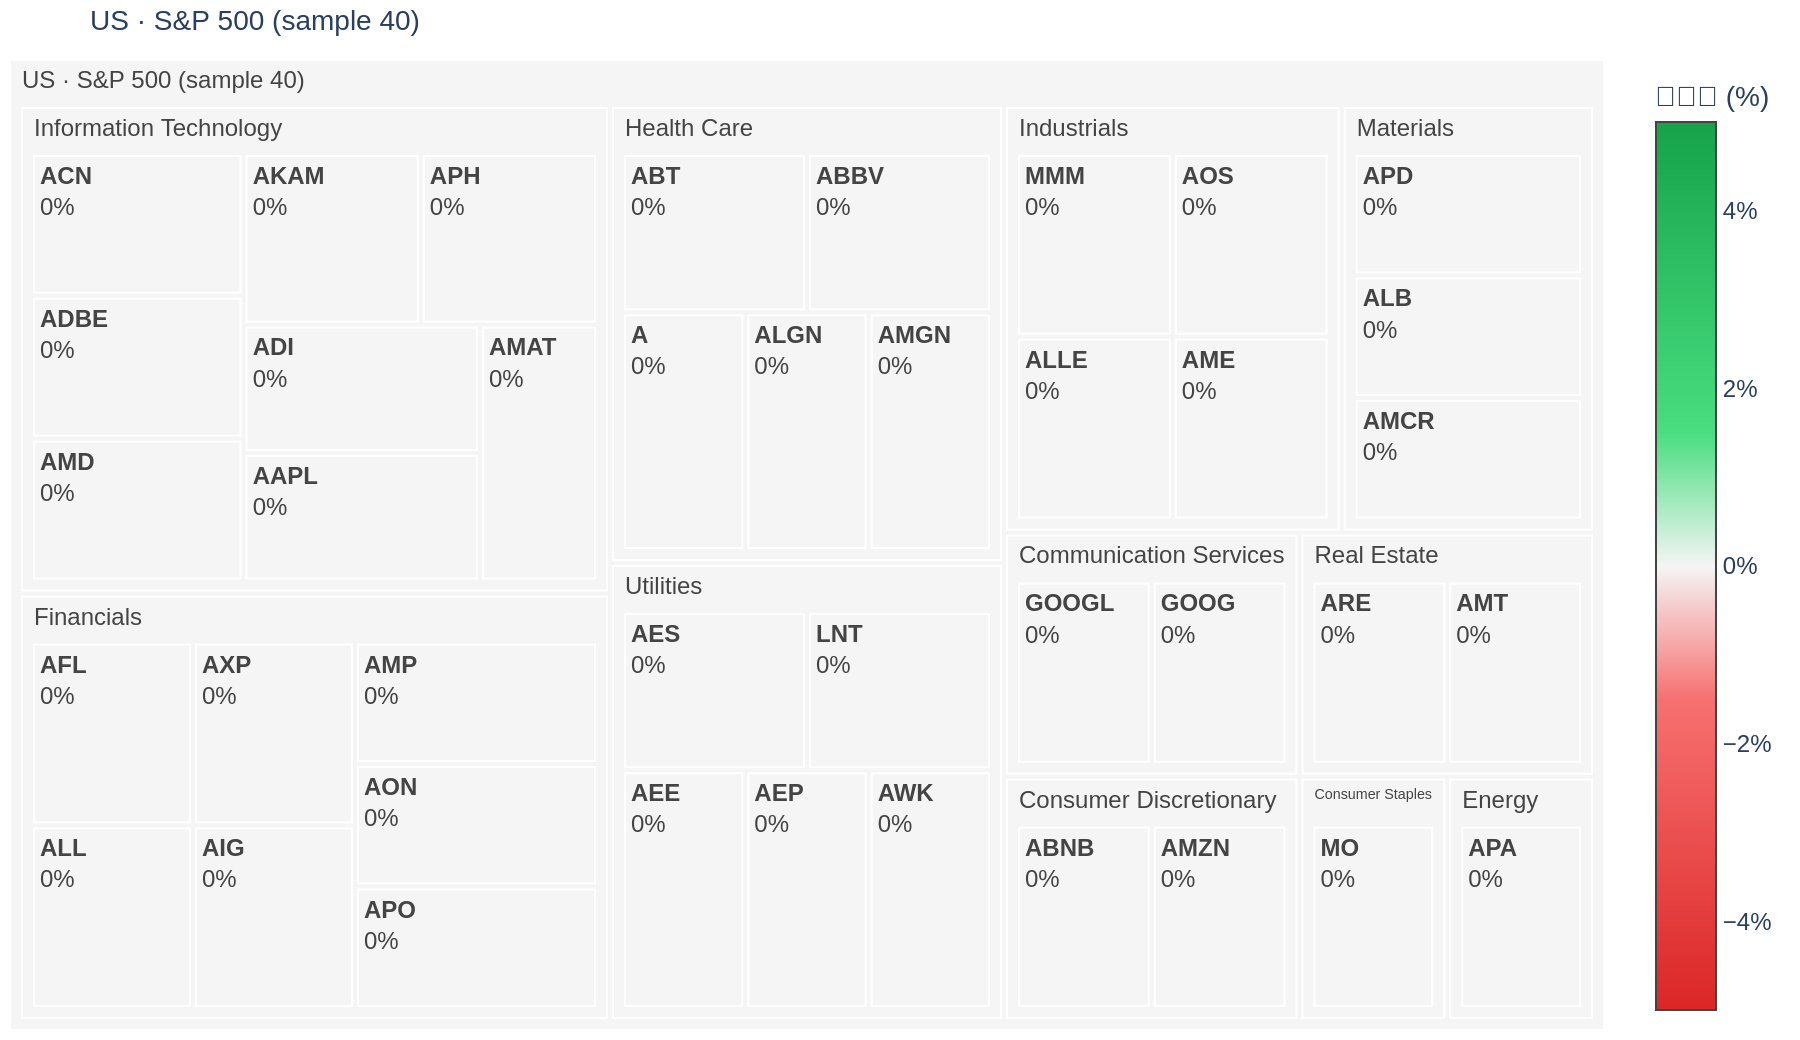
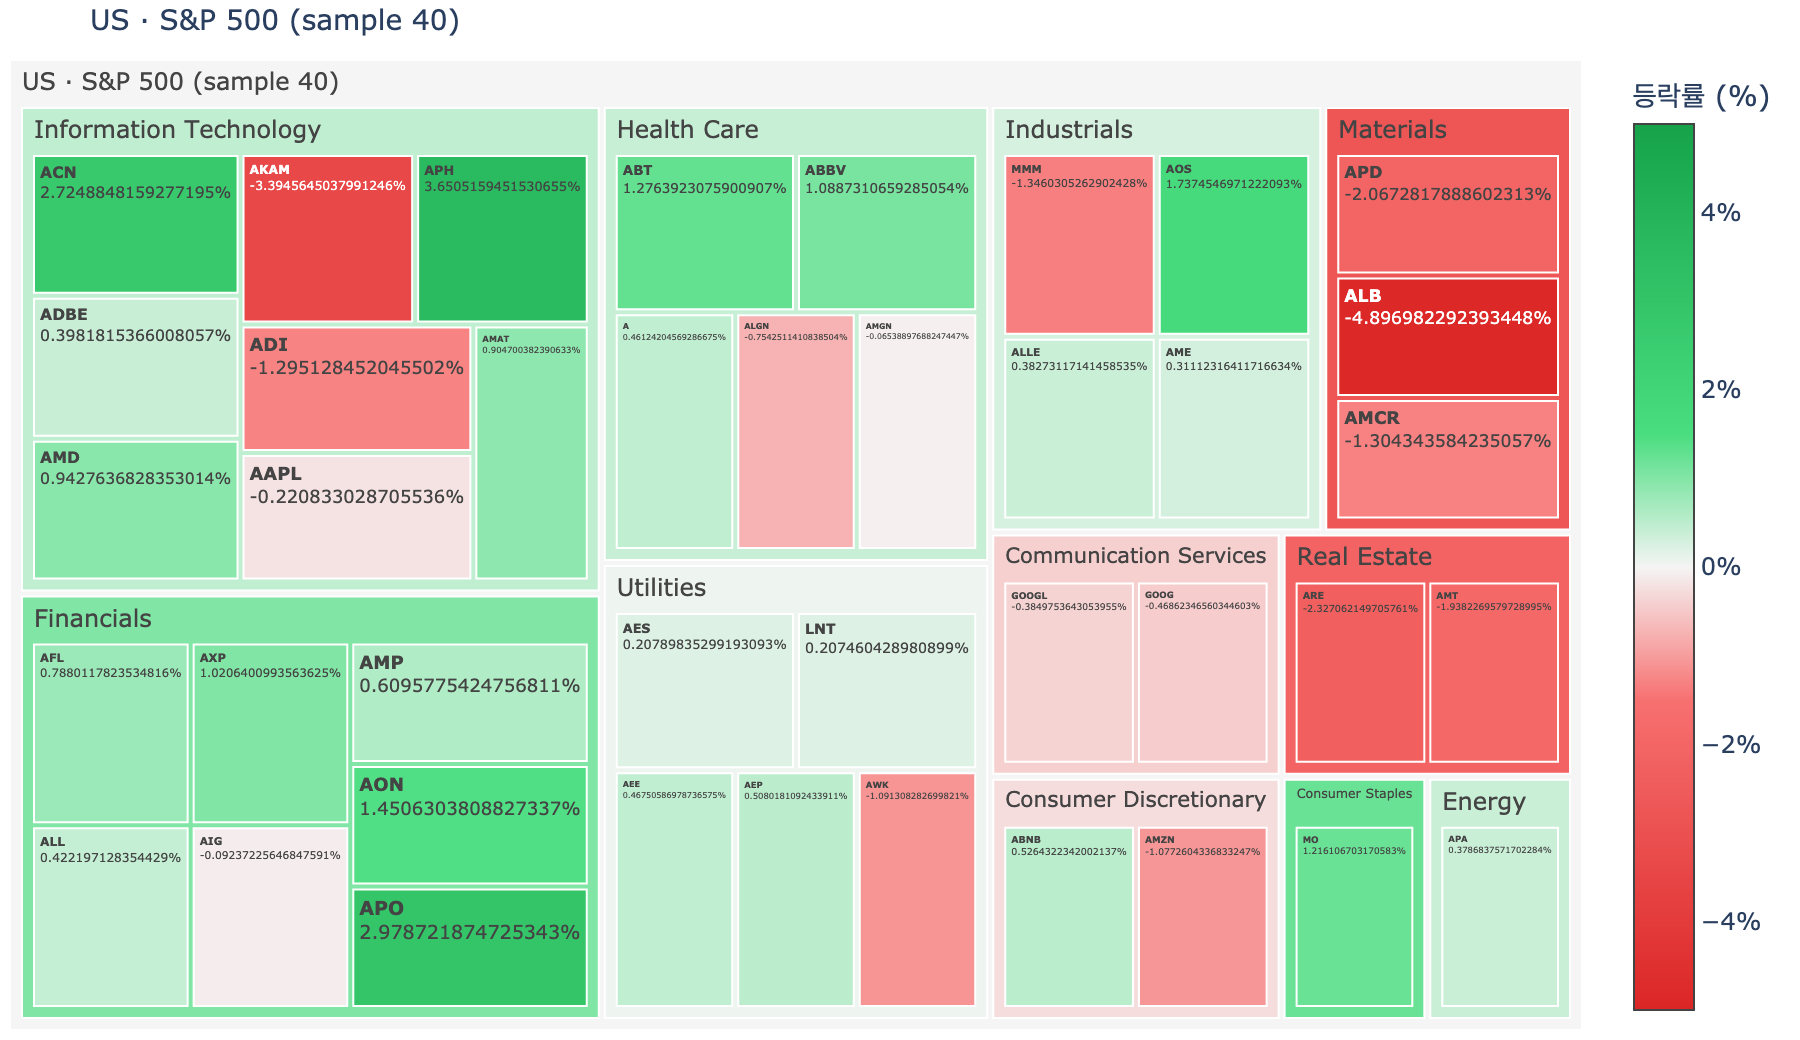
fix(heatmap): compute pct via Yahoo chart endpoint

diff --git a/scripts/generate_heatmaps.py b/scripts/generate_heatmaps.py
@@ -25,7 +25,8 @@ from pathlib import Path
 
 import pandas as pd
 import requests
-import yfinance as yf
+# yfinance often rate-limits in GitHub Actions / CI. Prefer Yahoo chart endpoint via requests.
+# import yfinance as yf
 
 ROOT = Path(__file__).resolve().parents[1]
 UA = {"User-Agent": "Mozilla/5.0 (Macintosh; Intel Mac OS X)"}
@@ -181,54 +182,59 @@ def fetch_pct_change_stooq(tickers: list[str], as_of: str) -> pd.Series:
     return pd.Series(out, name="pct")
 
 
-def fetch_pct_change_yf(tickers: list[str], as_of: str) -> pd.Series:
-    """Compute pct change for each ticker on as_of via yfinance batch download."""
-    start = (pd.to_datetime(as_of) - pd.Timedelta(days=10)).strftime("%Y-%m-%d")
-    end = (pd.to_datetime(as_of) + pd.Timedelta(days=2)).strftime("%Y-%m-%d")
+def fetch_pct_change_yahoo(tickers: list[str], as_of: str) -> pd.Series:
+    """Compute pct change for each ticker on as_of using Yahoo public chart endpoint.
 
-    df = yf.download(
-        tickers=tickers,
-        start=start,
-        end=end,
-        interval="1d",
-        group_by="ticker",
-        auto_adjust=False,
-        threads=True,
-        progress=False,
-    )
+    This avoids yfinance and is more reliable in CI, but it is 1 request per ticker.
+    We keep ticker counts capped upstream.
+    """
+    import requests
 
-    out = {}
     target = pd.to_datetime(as_of)
+    out = {}
 
-    def get_close(frame, t):
-        if isinstance(frame.columns, pd.MultiIndex):
-            if (t, "Close") in frame.columns:
-                s = frame[(t, "Close")].dropna()
-            else:
-                return None
-        else:
-            # single ticker
-            s = frame["Close"].dropna()
-        if s.empty:
+    sess = requests.Session()
+
+    def last_two_closes(t: str):
+        url = f"https://query1.finance.yahoo.com/v8/finance/chart/{t}"
+        params = {"interval": "1d", "range": "14d"}
+        r = sess.get(url, params=params, headers=UA, timeout=30)
+        if r.status_code == 429:
+            raise RuntimeError("rate_limited")
+        r.raise_for_status()
+        j = r.json()
+        result = (((j or {}).get("chart") or {}).get("result") or [None])[0]
+        if not result:
             return None
-        return s
+        ts = result.get("timestamp") or []
+        quote = (((result.get("indicators") or {}).get("quote") or [None])[0]) or {}
+        closes = quote.get("close") or []
+        rows = []
+        for tt, c in zip(ts, closes):
+            if c is None:
+                continue
+            d = pd.to_datetime(int(tt), unit="s").tz_localize(None)
+            rows.append((d, float(c)))
+        if len(rows) < 2:
+            return None
+        rows.sort(key=lambda x: x[0])
+        rows = [rc for rc in rows if rc[0] <= target]
+        if len(rows) < 2:
+            return None
+        return rows[-1], rows[-2]
 
     for t in tickers:
-        s = get_close(df, t)
-        if s is None or s.empty:
+        try:
+            r = last_two_closes(t)
+            if r is None:
+                continue
+            (d_last, last_close), (d_prev, prev_close) = r
+            if prev_close <= 0:
+                continue
+            out[t] = (last_close / prev_close - 1.0) * 100.0
+            time.sleep(0.15)
+        except Exception:
             continue
-        # find target close and previous close
-        if target not in s.index:
-            continue
-        cur = float(s.loc[target])
-        # previous available date
-        prev_idx = s.index[s.index < target]
-        if len(prev_idx) == 0:
-            continue
-        prev = float(s.loc[prev_idx[-1]])
-        if prev <= 0:
-            continue
-        out[t] = (cur / prev - 1.0) * 100.0
 
     return pd.Series(out, name="pct")
 
@@ -342,9 +348,11 @@ def main():
     # Fetch market data once for all tickers
     all_tickers = sorted({t for _, _, df in specs for t in df["ticker"].astype(str).tolist()})
 
-    # Daily % change: avoid yfinance rate limits.
-    # For reliability we compute pct via Stooq per-ticker, but keep ticker counts capped (MAX_NDX/MAX_SPX).
-    pct = fetch_pct_change_stooq(all_tickers, as_of=as_of)
+    # Daily % change: use Yahoo public chart endpoint (more reliable in CI than yfinance).
+    pct = fetch_pct_change_yahoo(all_tickers, as_of=as_of)
+    if pct.empty:
+        # Fallback: Stooq per-ticker.
+        pct = fetch_pct_change_stooq(all_tickers, as_of=as_of)
     if pct.empty:
         # Last resort: neutral colors.
         pct = pd.Series({t: 0.0 for t in all_tickers}, name="pct")
@@ -395,7 +403,7 @@ def main():
         payload = {
             "label": "통합 · 섹터 히트맵",
             "asOf": as_of,
-            "source": "yfinance (pct+market cap), Wikipedia/CSV constituents",
+            "source": "Yahoo chart (pct) + Wikipedia/CSV constituents",
             "items": out_items,
         }
         write_json(out_dir / "all-sectors.json", payload)